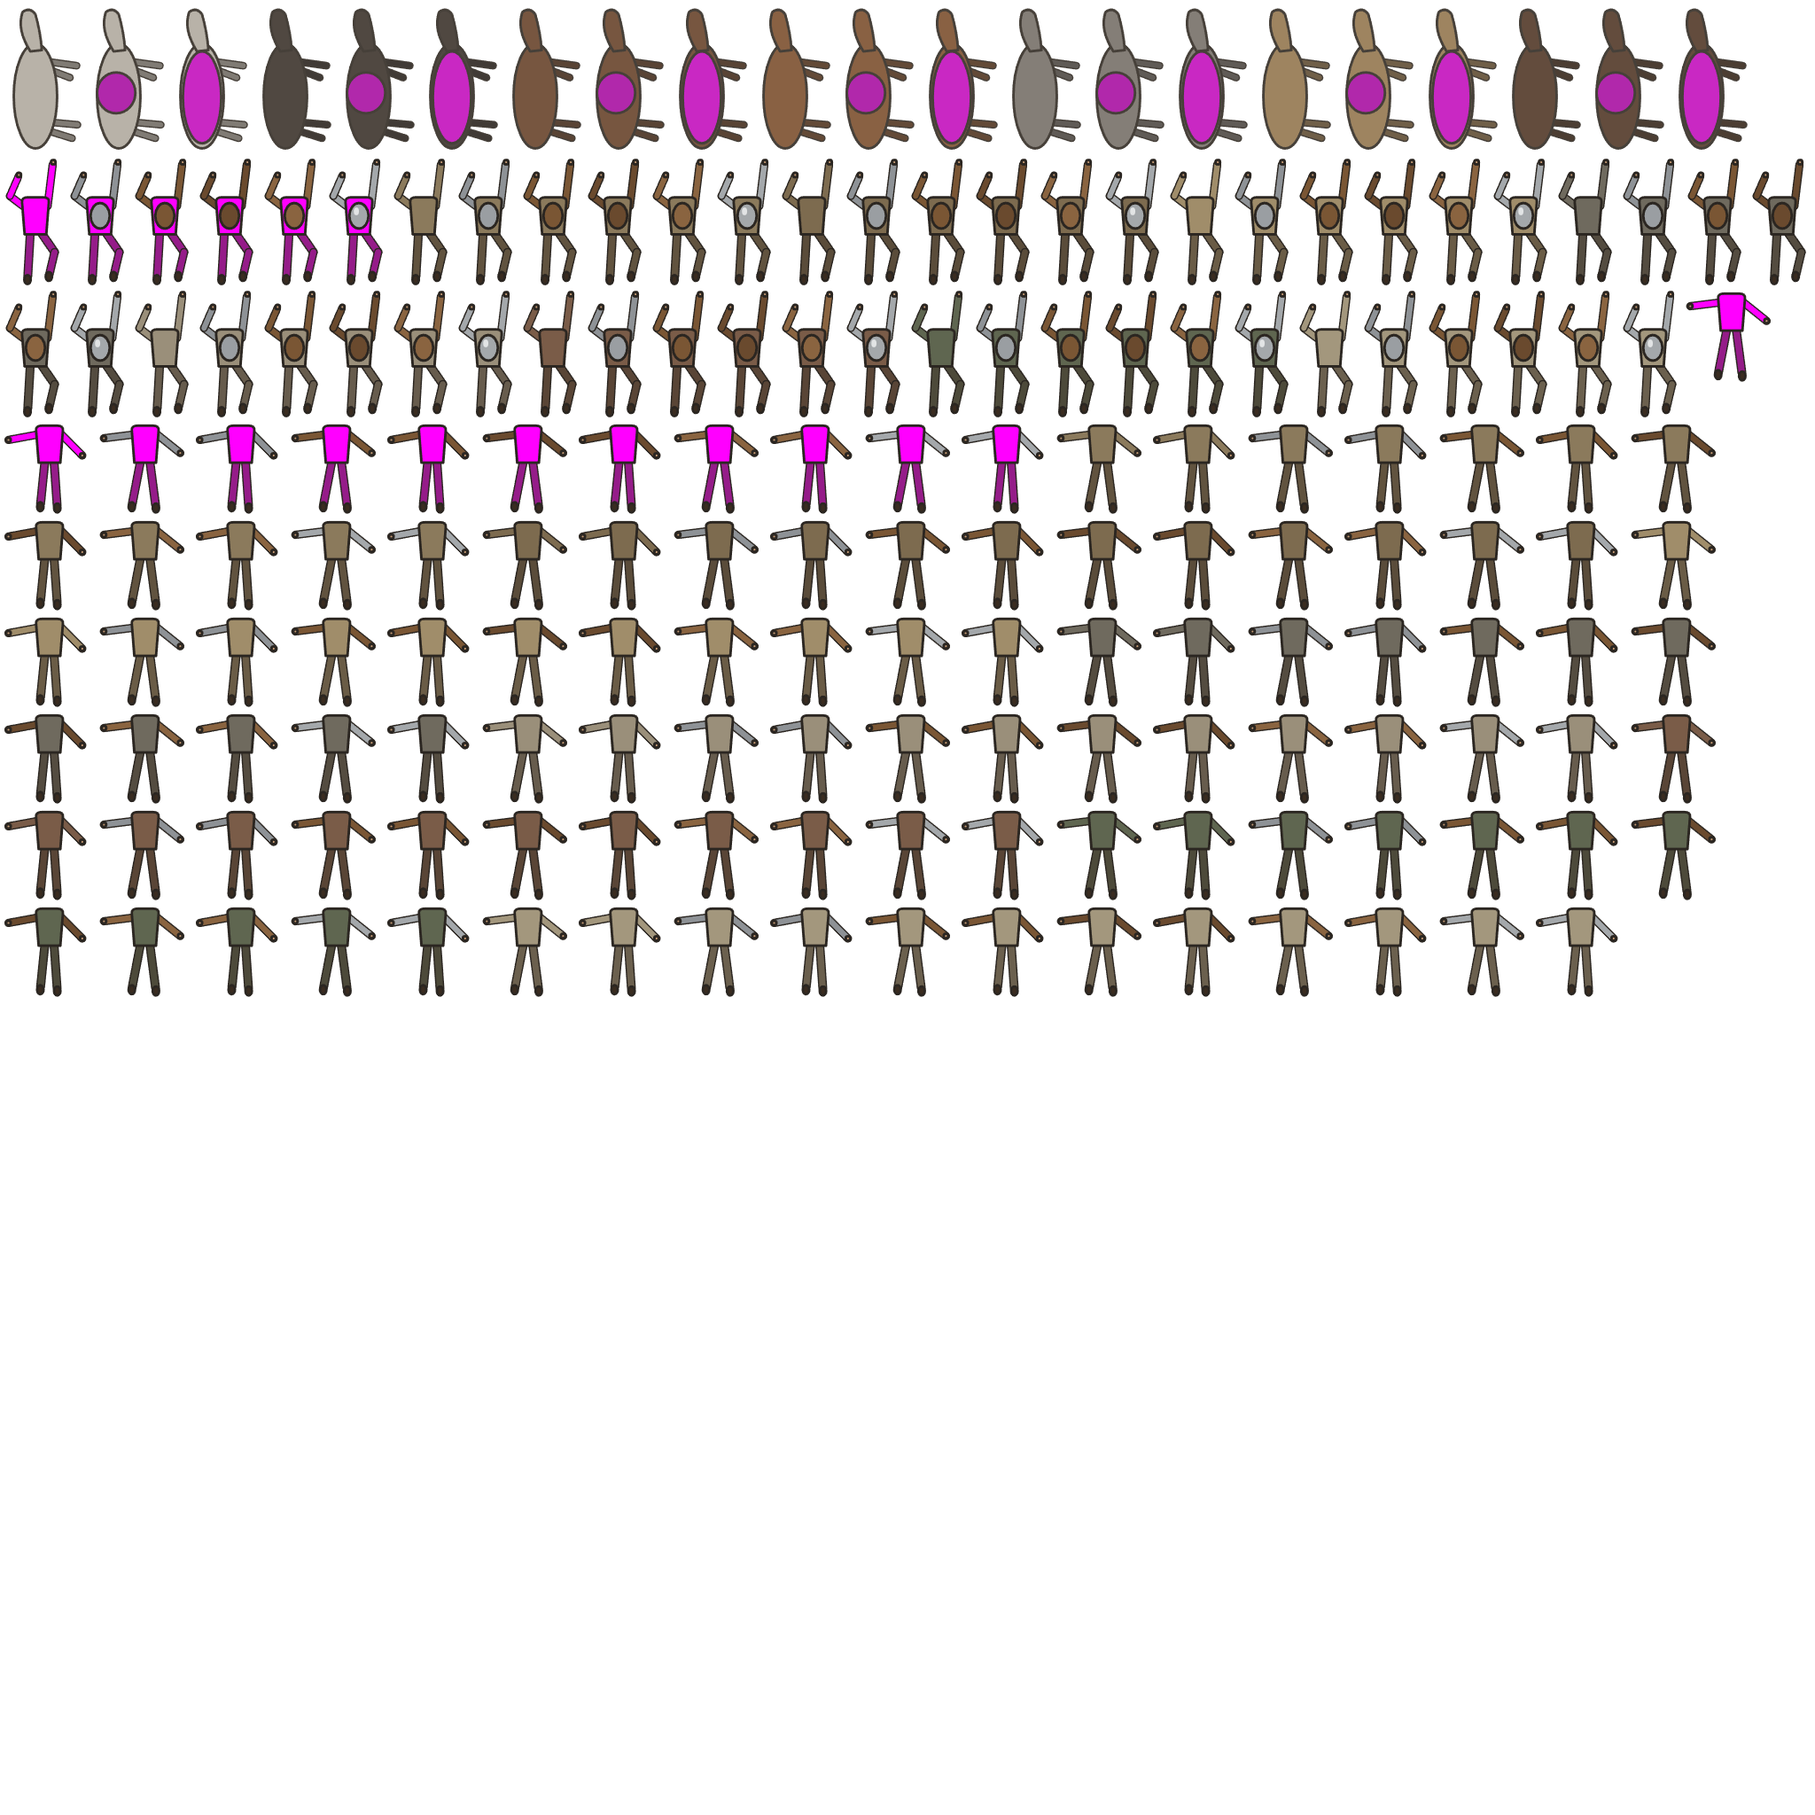
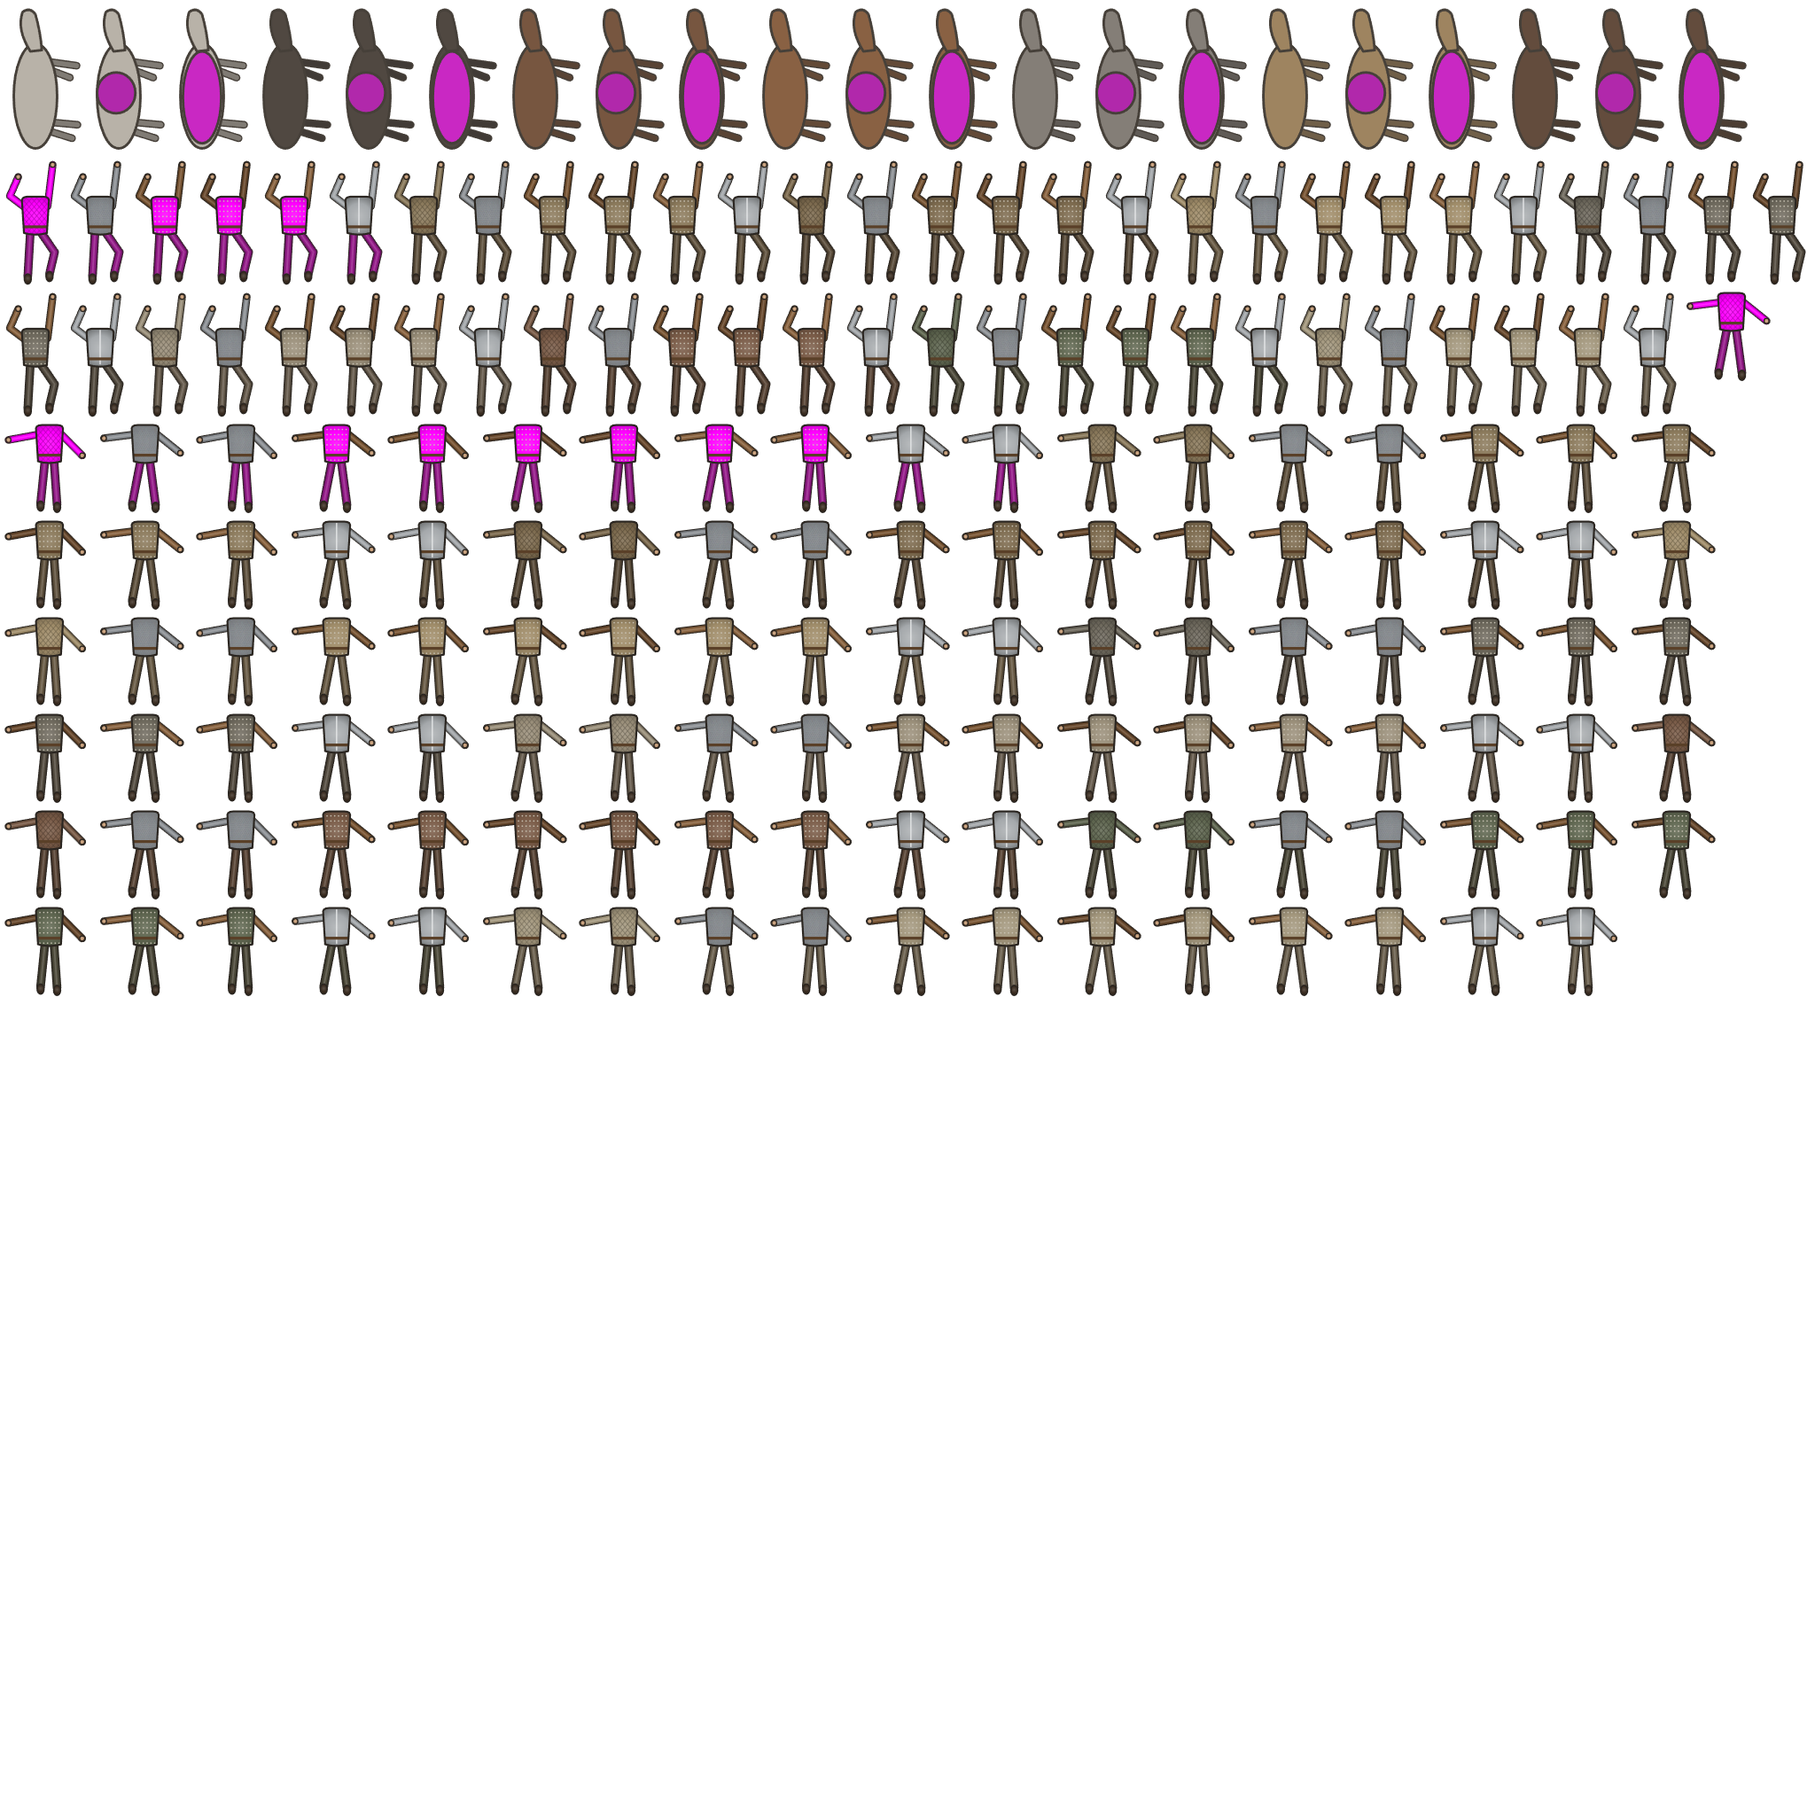
В17: павшие и раненые в новом облике; падающий — стоящей фигуркой
- paintLying (polygon-men.js): лежащий — руки и ноги трубками с объёмом, кисти и сапоги, корпус по доспеху
  (простёжка, бригантина, кольчуга, латы) с поясом; позы павшего (corpsePose) и раненого (CRAWL_POSE) — прежние.
  Атлас dead перевыгружен; лежащий виден сверху во весь рост — вид сверху для него верен.
- MenView: первые 0,15 с падающий — стоящая фигурка, которую качнуло от удара (а не плоский боец вида сверху).

diff --git a/core/Tests/polygon-men.js b/core/Tests/polygon-men.js
@@ -449,6 +449,47 @@ function paintHorse(g, k, f){
   at(HNECK[0], HNECK[1] + P.nod, 0, () => paintHorseHead(g, k));
   paintHorseCover(g, k);
 }
+// Лежащий (павший, раненый — В8, Г39; облик В17): руки и ноги — трубки с объёмом, кисти и сапоги, корпус по доспеху
+// (простёжка, бригантина, кольчуга, латы) с поясом. Лежащий виден сверху во весь рост — вид сверху для него верен.
+// P.legs — ломаные от бедра к ступне, P.arms — от плеча к кисти; голова — отдельно (Unity кладёт шлем)
+function paintLying(g, cloth, armour, leather, P){
+  const pants = mix(cloth, "#3e3328", 0.55), boot = "#3a2c20", sleeve = sleeveOf({armour, leather, cloth});
+  const tube = (pts, w, col) => {
+    g.beginPath(); pts.forEach(([x, y], i) => i ? g.lineTo(x, y) : g.moveTo(x, y));
+    g.strokeStyle = INK; g.lineWidth = w + 0.025; g.stroke();
+    g.strokeStyle = shade(col, -0.3); g.lineWidth = w; g.stroke();
+    g.strokeStyle = col; g.lineWidth = w * 0.62; g.stroke();
+    g.strokeStyle = shade(col, 0.15); g.lineWidth = w * 0.22; g.stroke();
+  };
+  for(const L of P.legs){
+    tube(L, 0.11, pants);
+    const [fx, fy] = L[L.length - 1]; g.beginPath(); g.ellipse(fx, fy + 0.04, 0.055, 0.08, 0, 0, 6.283); g.fillStyle = vol(g, boot, fx, fy + 0.03, 0.09); g.fill(); edge(g, 0.02);
+  }
+  for(const A of P.arms){
+    tube(A, 0.095, sleeve);
+    const [hx, hy] = A[A.length - 1]; g.beginPath(); g.arc(hx, hy, 0.04, 0, 6.283); g.fillStyle = vol(g, SKIN, hx, hy, 0.05); g.fill(); edge(g, 0.018);
+  }
+  const torso = () => { g.beginPath(); g.moveTo(-0.21, -0.36); g.quadraticCurveTo(-0.23, -0.45, -0.12, -0.45); g.lineTo(0.12, -0.45); g.quadraticCurveTo(0.23, -0.45, 0.21, -0.36);
+    g.lineTo(0.18, 0.12); g.quadraticCurveTo(0, 0.17, -0.18, 0.12); g.closePath(); };
+  const base = armour === "mail" ? MAIL : armour === "plate" ? STEEL : cloth;
+  torso(); g.fillStyle = vol(g, base, 0, -0.15, 0.35, armour === "plate" ? 1.2 : 0.8); g.fill();
+  g.save(); torso(); g.clip();
+  if(armour === "mail") rings(g, -0.25, -0.5, 0.25, 0.2, MAIL_D);
+  else if(armour === "plate"){ g.strokeStyle = SHINE; g.lineWidth = 0.02; g.beginPath(); g.moveTo(0, -0.42); g.lineTo(0, 0.1); g.stroke(); }
+  else if(armour === "leather"){ for(let y = -0.38; y < 0.12; y += 0.08) for(let x = -0.15; x <= 0.15; x += 0.06) ell(g, x, y, 0.01, 0.01, "#c9c3b4", 0, false); }
+  else { g.strokeStyle = shade(base, -0.3); g.lineWidth = 0.009; g.beginPath(); for(let d = -0.7; d <= 0.7; d += 0.08){ g.moveTo(d - 0.3, -0.5); g.lineTo(d + 0.3, 0.2); g.moveTo(d + 0.3, -0.5); g.lineTo(d - 0.3, 0.2); } g.stroke(); }
+  g.fillStyle = "#5a4028"; g.fillRect(-0.2, 0.0, 0.4, 0.045);
+  g.restore(); torso(); edge(g, 0.03);
+}
+// поза павшего: на спине, ноги чуть врозь, руки раскинуты (v — вариант)
+function corpsePose(v){
+  const r = j => hash(v * 131 + 7, j), sp = 0.05 + 0.12 * r(1), la = -0.3 - 1.2 * r(2), ra = 0.3 + 1.2 * r(3);
+  const arm = (sx, a) => [[sx, -0.3], [sx + Math.sin(a) * 0.46, -0.3 + Math.cos(a) * 0.46]];
+  return {legs: [[[-0.07, 0.1], [-0.07 - sp, 0.78]], [[0.07, 0.1], [0.07 + sp * 0.7, 0.8]]], arms: [arm(-0.19, la), arm(0.19, ra)]};
+}
+// поза раненого: лицом вниз, правая рука вперёд, левая согнута, правая нога подтянута
+const CRAWL_POSE = {legs: [[[-0.08, 0.1], [-0.12, 0.8]], [[0.08, 0.1], [0.3, 0.42], [0.22, 0.76]]],
+  arms: [[[0.19, -0.3], [0.27, -0.95]], [[-0.19, -0.3], [-0.4, -0.46], [-0.27, -0.76]]]};
 // павший: лежит на спине, голова — к −y, ноги у начала; рядом — оружие и щит; краски приглушены (В8)
 function paintCorpse(g, k, v){
   const r = j => hash(v * 131 + 7, j), pants = mix(k.cloth, "#3e3328", 0.55), boot = "#3a2c20";
@@ -459,33 +500,14 @@ function paintCorpse(g, k, v){
     g.save(); g.translate(0.45 + 0.15 * r(5), -0.25 + 0.5 * r(6)); g.rotate(r(7) * 6.283);
     const sc = w === "pike" || w === "lance" ? 0.4 : w === "spear" || w === "fork" ? 0.7 : 0.9; g.scale(sc, sc); paintWeapon(g, w, k.col); g.restore();
   } else if(k.weapon === "bow"){ g.save(); g.translate(0.5, 0.1); g.rotate(r(7) * 6.283); paintBow(g, 0); g.restore(); }
-  const sp = 0.05 + 0.12 * r(1);
-  stick(g, -0.07, 0.1, -0.07 - sp, 0.78, 0.1, pants); ell(g, -0.07 - sp * 1.06, 0.83, 0.05, 0.07, boot);
-  stick(g, 0.07, 0.1, 0.07 + sp * 0.7, 0.8, 0.1, pants); ell(g, 0.07 + sp * 0.74, 0.85, 0.05, 0.07, boot);
-  const la = -0.3 - 1.2 * r(2), ra = 0.3 + 1.2 * r(3);
-  for(const [sx, a] of [[-0.19, la], [0.19, ra]]){
-    const hx = sx + Math.sin(a) * 0.46, hy = -0.3 + Math.cos(a) * 0.46;
-    stick(g, sx, -0.3, hx, hy, 0.09, sleeve); ell(g, hx, hy, 0.035, 0.035, "#c49a74");
-  }
-  g.beginPath(); g.moveTo(-0.21, -0.36); g.quadraticCurveTo(-0.22, -0.44, -0.12, -0.44); g.lineTo(0.12, -0.44); g.quadraticCurveTo(0.22, -0.44, 0.21, -0.36);
-  g.lineTo(0.17, 0.14); g.lineTo(-0.17, 0.14); g.closePath(); g.fillStyle = k.cloth; g.fill(); g.strokeStyle = INK; g.lineWidth = 0.04; g.stroke();
+  paintLying(g, k.cloth, k.armour, k.leather, corpsePose(v));
   g.save(); g.translate(0, -0.56); paintHead(g, k); g.restore();
   g.globalCompositeOperation = "source-atop"; g.fillStyle = "rgba(112,106,96,.38)"; g.fillRect(-2, -2, 4, 4); g.globalCompositeOperation = "source-over";
 }
 // раненый (Г39, В13): лежит лицом вниз, голова к −y, правая рука вытянута вперёд, левая согнута в локте, правая нога
 // подтянута — так он ползёт; следующий рывок — тот же рисунок, отражённый слева направо. Краски живые, не приглушены
 function sleeveOf(k){ return k.armour === "mail" ? "#8e9296" : k.armour === "leather" ? k.leather : k.armour === "plate" ? STEEL : k.cloth; }
-function paintCrawlBody(g, cloth, armour, leather){
-  const pants = mix(cloth, "#3e3328", 0.55), boot = "#3a2c20", sleeve = sleeveOf({armour, leather, cloth});
-  stick(g, -0.08, 0.1, -0.12, 0.8, 0.1, pants); ell(g, -0.125, 0.85, 0.05, 0.07, boot);
-  stick(g, 0.08, 0.1, 0.3, 0.42, 0.1, pants); stick(g, 0.3, 0.42, 0.22, 0.76, 0.095, pants); ell(g, 0.21, 0.8, 0.05, 0.07, boot);
-  stick(g, 0.19, -0.3, 0.27, -0.95, 0.09, sleeve); ell(g, 0.28, -0.99, 0.035, 0.035, "#c49a74");
-  stick(g, -0.19, -0.3, -0.4, -0.46, 0.09, sleeve); stick(g, -0.4, -0.46, -0.27, -0.76, 0.085, sleeve); ell(g, -0.26, -0.79, 0.035, 0.035, "#c49a74");
-  g.beginPath(); g.moveTo(-0.21, -0.36); g.quadraticCurveTo(-0.22, -0.44, -0.12, -0.44); g.lineTo(0.12, -0.44); g.quadraticCurveTo(0.22, -0.44, 0.21, -0.36);
-  g.lineTo(0.17, 0.14); g.lineTo(-0.17, 0.14); g.closePath(); g.fillStyle = cloth; g.fill(); g.strokeStyle = INK; g.lineWidth = 0.04; g.stroke();
-  if(armour === "mail" || armour === "plate"){ ell(g, 0, -0.15, 0.15, 0.2, armour === "mail" ? "#9a9ea2" : STEEL); if(armour === "plate") ell(g, -0.04, -0.22, 0.04, 0.06, SHINE, 0, false); }
-  else if(armour === "leather") ell(g, 0, -0.15, 0.15, 0.2, leather);
-}
+function paintCrawlBody(g, cloth, armour, leather){ paintLying(g, cloth, armour, leather, CRAWL_POSE); }
 function paintCrawl(g, k){ paintCrawlBody(g, k.cloth, k.armour, k.leather); g.save(); g.translate(0, -0.56); paintHead(g, k); g.restore(); }
 // павший конь лежит на боку: ноги в сторону
 function paintDeadHorse(g, k){

diff --git a/core/Tests/atlas-export.js b/core/Tests/atlas-export.js
@@ -118,20 +118,8 @@
   // крона радиуса 1 м: та же функция полигона, крупно (детали — как вблизи)
   function crownUnit(g, s, pal, nb){ crown(g, 0, 0, 1, s, pal, 60, 0.07, nb); }
   // тело павшего без головы, оружия и щита (их Unity кладёт рядом сам) — как paintCorpse полигона
-  function corpseBody(g, cloth, armour, leather, v){
-    const r = j => hash(v * 131 + 7, j), pants = mix(cloth, "#3e3328", 0.55), boot = "#3a2c20";
-    const sleeve = armour === "mail" ? "#8e9296" : armour === "leather" ? leather : armour === "plate" ? STEEL : cloth;
-    const sp = 0.05 + 0.12 * r(1);
-    stick(g, -0.07, 0.1, -0.07 - sp, 0.78, 0.1, pants); ell(g, -0.07 - sp * 1.06, 0.83, 0.05, 0.07, boot);
-    stick(g, 0.07, 0.1, 0.07 + sp * 0.7, 0.8, 0.1, pants); ell(g, 0.07 + sp * 0.74, 0.85, 0.05, 0.07, boot);
-    const la = -0.3 - 1.2 * r(2), ra = 0.3 + 1.2 * r(3);
-    for(const [sx, a] of [[-0.19, la], [0.19, ra]]){
-      const hx = sx + Math.sin(a) * 0.46, hy = -0.3 + Math.cos(a) * 0.46;
-      stick(g, sx, -0.3, hx, hy, 0.09, sleeve); ell(g, hx, hy, 0.035, 0.035, "#c49a74");
-    }
-    g.beginPath(); g.moveTo(-0.21, -0.36); g.quadraticCurveTo(-0.22, -0.44, -0.12, -0.44); g.lineTo(0.12, -0.44); g.quadraticCurveTo(0.22, -0.44, 0.21, -0.36);
-    g.lineTo(0.17, 0.14); g.lineTo(-0.17, 0.14); g.closePath(); g.fillStyle = cloth; g.fill(); g.strokeStyle = INK; g.lineWidth = 0.04; g.stroke();
-  }
+  function corpseBody(g, cloth, armour, leather, v){ paintLying(g, cloth, armour, leather, corpsePose(v)); }
+
 
   const PPM = {men: 128, horses: 72, dead: 72, nature: 64};
   const PAD = 4;

diff --git a/game/Assets/Scripts/Viewer/MenView.cs b/game/Assets/Scripts/Viewer/MenView.cs
@@ -346,6 +346,7 @@ namespace Journal.Viewer
         readonly List<ManP> M = new List<ManP>();
         readonly Dictionary<int, float> figTop = new Dictionary<int, float>();
         readonly HashSet<long> fallenNow = new HashSet<long>();
+        int frameDetail = 2;   // подробность фигурок в этом кадре (В17) — для тех, кто рисуется вне DrawMan
         // стоящие бойцы (В17): части всех фигурок кадра; рисуются в конце — фигурки от дальних к ближним (по y земли), части
         // внутри фигурки — по своей глубине
         readonly List<Prim> prims = new List<Prim>();
@@ -370,6 +371,7 @@ namespace Journal.Viewer
             decals.Clear(); corpses.Clear(); deadTop.Clear(); horseB.Clear(); menB.Clear(); air.Clear(); sparks.Clear(); prims.Clear(); figs.Clear();
             double ft = t / rec.Dt; int f0 = Math.Min((int)Math.Floor(ft), rec.Frames.Count - 1), f1 = Math.Min(f0 + 1, rec.Frames.Count - 1); float q = (float)(ft - f0);
             float t32 = (float)t;
+            frameDetail = ppm >= 30 ? 2 : ppm >= 14 ? 1 : 0;
             bool In(float x, float y, float pad) => x > view.xMin - pad && x < view.xMax + pad && y > view.yMin - pad && y < view.yMax + pad;
             IndexArrows();
             PrepFrame(f0, t32, In);
@@ -696,14 +698,12 @@ namespace Journal.Viewer
                 if (age < 0.15f && !rider)
                 {
                     float k2 = age / 0.15f, d = dd.Dir * Mathf.Deg2Rad;
-                    var sm = Aff.At(dd.X + Mathf.Cos(d) * 0.12f * k2, dd.Y + Mathf.Sin(d) * 0.12f * k2).R(dd.Facing * Mathf.Deg2Rad + (H(seed, 55) - 0.5f) * 0.6f * k2);
+                    float sx = dd.X + Mathf.Cos(d) * 0.12f * k2, sy = dd.Y + Mathf.Sin(d) * 0.12f * k2;
                     var (W, Sh) = Rest(kit, 0, 0);
-                    if (kit.Back != null) menB.Quad(men.Get(kit.Back), sm, col, Vector4.zero);
-                    BodyHead(kit, sm, col, live);
-                    if (Sh != null) menB.Quad(men.Get(kit.Shield), Pose(sm, Sh), col, Vector4.zero);
-                    if (kit.Weapon == "bow") menB.Quad(men.Get("bow/0"), sm, col, Vector4.zero);
-                    else if (kit.Weapon == "crossbow") menB.Quad(men.Get("xbow/0"), sm, col, Vector4.zero);
-                    else if (W != null) menB.Quad(men.Get("weapon/" + kit.Weapon), Pose(sm, W), col, Vector4.zero);
+                    // В17: стоящая фигурка, которую качнуло от удара
+                    int fs = prims.Count;
+                    Figure.Build(prims, figParts, kit, sx, sy, dd.Facing * Mathf.Deg2Rad + (H(seed, 55) - 0.5f) * 0.6f * k2, new FigPose { Weapon = kit.Weapon, W = W, Sh = Sh }, col, kit.Tone, frameDetail);
+                    figs.Add((sy, fs, prims.Count - fs));
                     continue;
                 }
                 int v = (int)(H(seed, 51) * 2);
